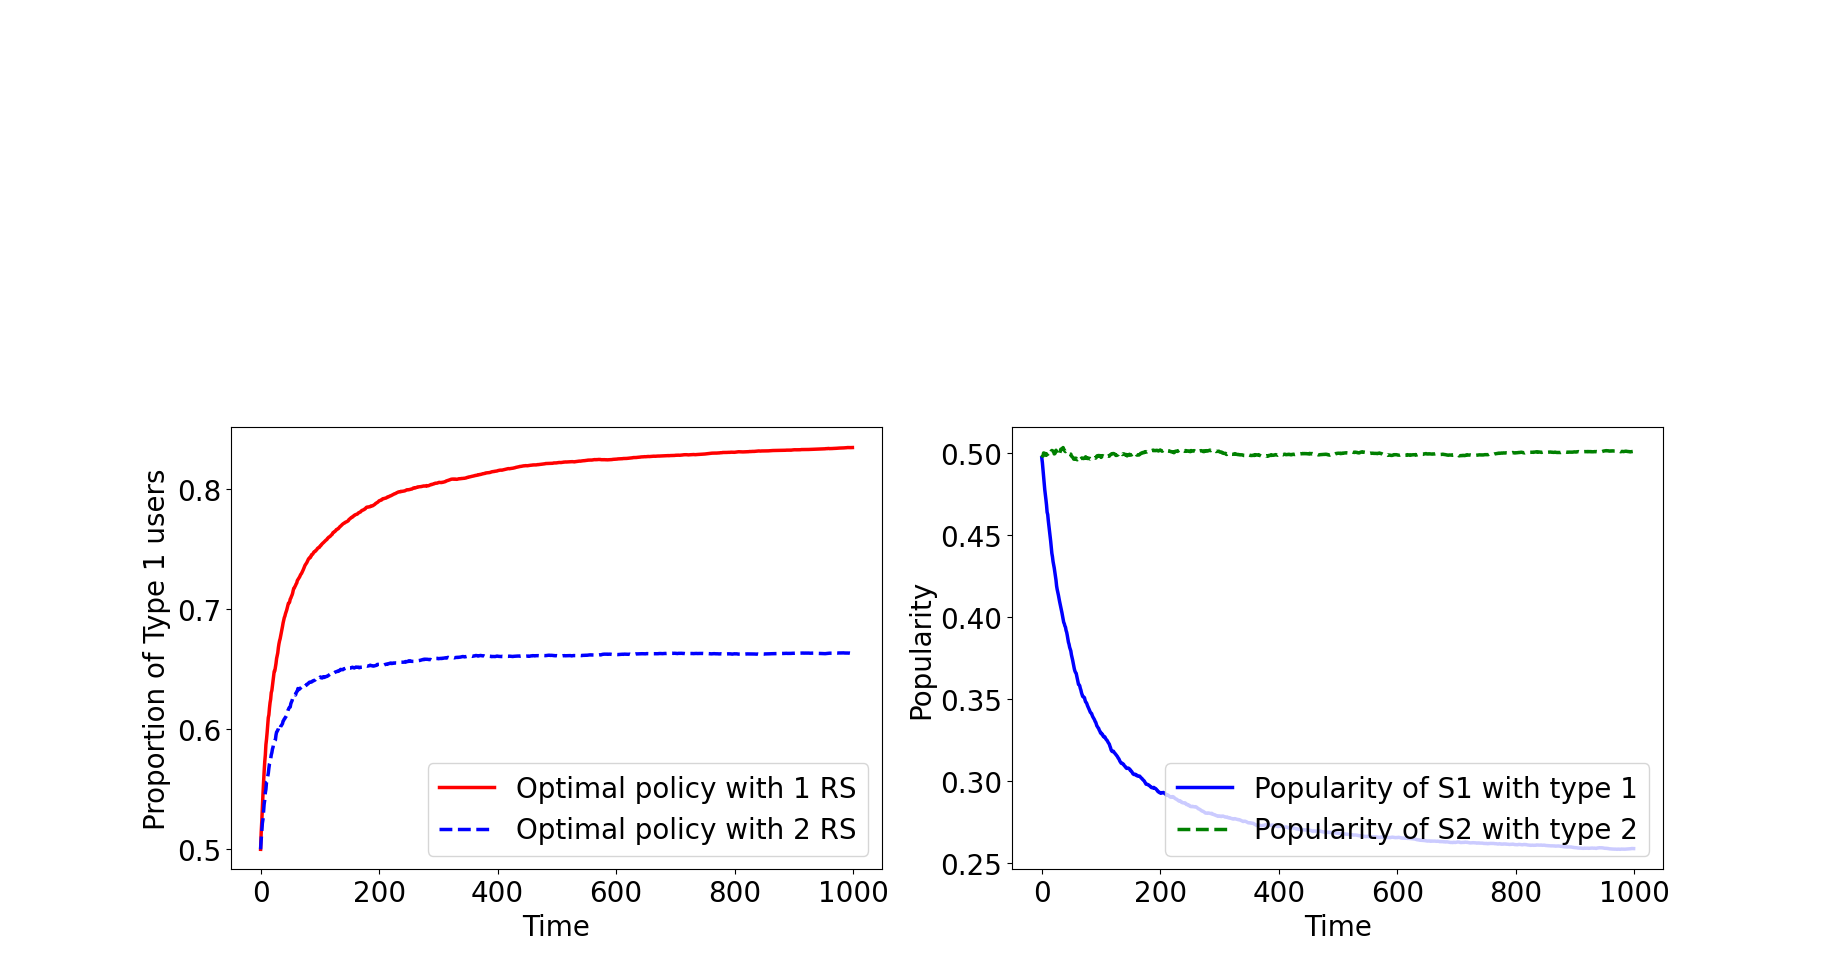
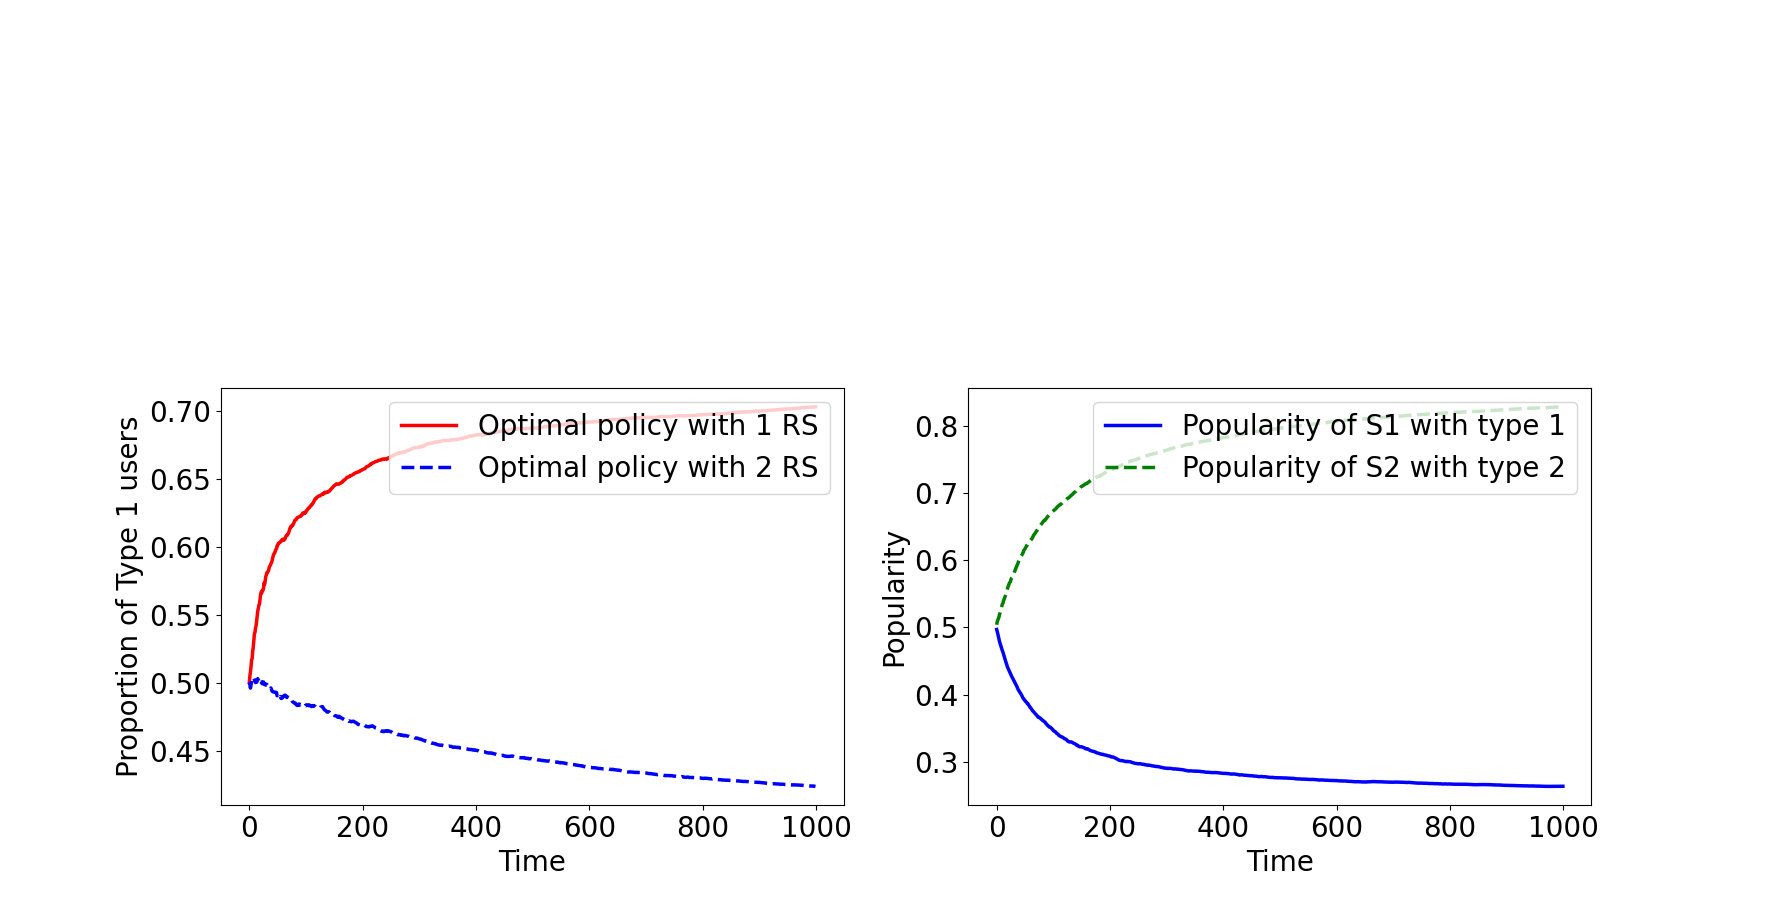
figure

diff --git a/BTP code/Paper Code/PAPERtwoRecommenders.py b/BTP code/Paper Code/PAPERtwoRecommenders.py
@@ -305,10 +305,10 @@ def simulateTHO(nSim,nTime,B,initUrn,initProp):
 
 #___________________________________________________________MAIN___________________________________________________________#
 
-b00 = 0.6 # initialise bernoulli reward matrix # 7568
-b01 = 0.2
-b10 = 0.2
-b11 = 0.6
+b00 = 0.7 # initialise bernoulli reward matrix # 7568
+b01 = 0.1
+b10 = 0.3
+b11 = 0.9
 B = np.matrix([[b00,b01],[b10,b11]])
 
 nSim = 100
